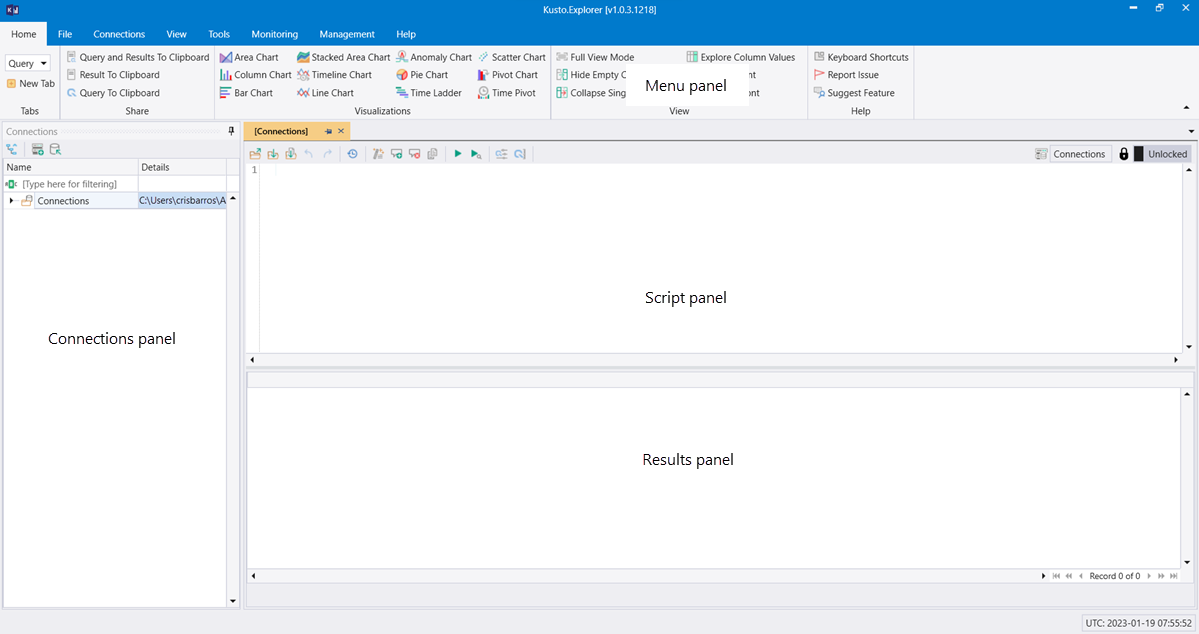
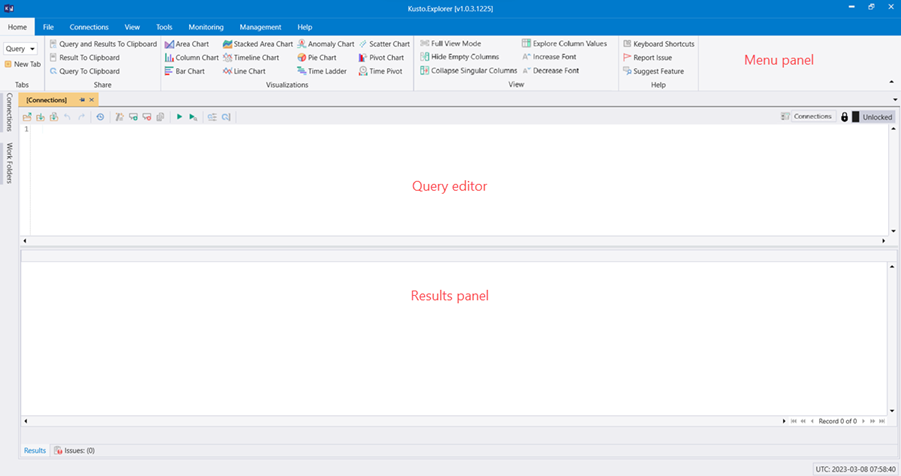
Edit

diff --git a/data-explorer/kusto/tools/kusto-explorer.md b/data-explorer/kusto/tools/kusto-explorer.md
@@ -39,36 +39,48 @@ If your default browser is the Chromium-based Microsoft Edge, installing this ex
 The Kusto.Explorer user interface is designed with a layout based on tabs and panels, similar to that of other Microsoft products:
 
 * Navigate through the tabs on the [menu panel](#menu-panel) to perform various operations
-* Manage your connections in the [connections panel](#connections-panel)
+* Manage your connections in the [connections panee](#connections-panel)
 * Create scripts to run in the script panel
 * View the results of the scripts in the results panel
 
 :::image type="content" source="images/kusto-explorer/ke-start.png" alt-text="Screenshot of Kusto Explorer user interface that shows an overview of the interface's four panels.":::
 
+## Connections panel
+
+:::image type="content" source="images/kusto-explorer/connections-panel.png" alt-text="Screenshot of the Connections panel that shows the Help cluster's databases.":::
+
+The Connections pane shows all the configured cluster connections. For each cluster the databases, tables, and attributes (columns) that they store are shown. Select items (which sets an implicit context
+for the search/query in the main panel), or double-click items to copy the name to the search/query panel.
+
+If the actual schema is large (such as a database with hundreds of tables), you can search it by pressing **CTRL+F** and entering a substring (case-insensitive) of the entity name you're looking for.
+
+Kusto.Explorer supports controlling the Connection panel from the query window, which is useful for scripts. For example, you can start a script file with a command that instructs Kusto.Explorer to connect to the cluster/database whose data is being queried by the script, by using the following syntax:
+
+<!-- csl -->
+```kusto
+#connect cluster('help').database('Samples')
+
+StormEvents | count
+```
+
+Run each line using `F5`, or similar.
+
+## Work Folders panel
+
+:::image type="content" source="images/kusto-explorer/work-folders-pane.png" alt-text="Screenshot of the Work Folders panel showing Unsaved work and Tracked Folders.":::
+
+The Work folders pane organizes your work folders in one place to make navigating your work easier. There are two types of work folders:
+
+* **Unsaved work**: lists folders for open query tabs that you may still be working on.
+* **Tracked folders**: lists folders from your local device that you can add as KQL libraries for easier access and management.
+
 ## Menu panel
-
-Kusto.Explorer Menu panel includes the following tabs:
-
-* [Home](#home-tab)
-* [File](#file-tab)
-* [Connections](#connections-tab)
-* [View](#view-tab)
-* [Tools](#tools-tab)
-* [Monitoring](#monitoring-tab)
-* [Management](#management-tab)
-* [Help](#help-tab)
 
 ### Home tab
 
 :::image type="content" source="images/kusto-explorer/home-tab.png" alt-text="Screenshot of the Home tab that shows the Home tab's five sections.":::
 
-The Home tab shows the most recently used functions, divided into sections:
-
-* [Query](#query-section)
-* [Share](#share-section)
-* [Visualizations](#visualizations-section)
-* [View](#view-section)
-* [Help](#help-tab)
+The Home tab shows the most frequently used operations. It includes:
 
 ### Query section
 
@@ -76,8 +88,8 @@ The Home tab shows the most recently used functions, divided into sections:
 
 |Menu|    Behavior|
 |----|----------|
-|Mode dropdown | <ul><li>Query mode: Switches Query Window into a [script mode](kusto-explorer-using.md#query-mode). Commands can be loaded and saved as scripts (default)</li> <li> Search mode: A single query mode where each command entered is processed immediately and presents a result in the Result Window</li> <li>Search++ mode: Allows searching for a term using search syntax across one or more tables. Learn more about using [Search++ Mode](kusto-explorer-using.md#search-mode)</li></ul> |
-|New Tab| Opens a new tab for querying Kusto |
+|Mode dropdown | <ul><li>Query mode: Switches the query editor into a [query mode](kusto-explorer-using.md#query-mode). Commands can be written and saved as queries (default)</li> <li> Search mode: A single query mode where each command entered is processed immediately and presents a result in the result panel</li> <li>Search++ mode: Allows searching for a term using search syntax across one or more tables. Learn more about using [Search++ Mode](kusto-explorer-using.md#search-mode)</li></ul> |
+|New Tab| Opens a new tab for querying Kusto Query Language. |
 
 ### Share section
 
@@ -92,6 +104,8 @@ The Home tab shows the most recently used functions, divided into sections:
 ### Visualizations section
 
 :::image type="content" source="images/kusto-explorer/home-visualizations-menu.png" alt-text="Screenshot of the Home tab section titled Visualizations that shows the different options for visualizing data.":::
+
+For variable visualizations see the [render operator](/data-explorer/kusto/query/renderoperator.md).
 
 |Menu         | Behavior|
 |-------------|---------|
@@ -247,6 +261,18 @@ The Home tab shows the most recently used functions, divided into sections:
 |Reset Options| Sets application settings to default values.|
 |Options| Opens a tool for configuring application settings. Learn more about [Kusto.Explorer options](kusto-explorer-options.md).|
 
+## Table row colors
+
+Kusto.Explorer tries to interpret the severity or verbosity level of each row in the results panel and color them accordingly. It does this by matching the distinct values of each column with a set of known patterns ("Warning", "Error", and so on).
+
+To modify the output color scheme, or turn this behavior off, from the **Tools** menu, select **Options** > **Results Viewer** > **Verbosity color scheme**.
+
+:::image type="content" source="images/kusto-explorer/ke-color-scheme.png" alt-text="Screenshot of Kusto Explorer color scheme modification.":::
+
+**Excel** color scheme legend| **Vivid** color scheme legend
+|---|---
+| :::image type="content" source="images/kusto-explorer/excel-color-scheme.png" alt-text="Screenshot of the Excel color scheme legend in Kusto Explorer." border="false"::: |:::image type="content" source="images/kusto-explorer/vivid-color-scheme.png" alt-text="Screenshot vivid color scheme legend in Kusto Explorer." border="false":::
+
 ## Monitoring tab
 
 :::image type="content" source="images/kusto-explorer/monitoring-tab.png" alt-text="Screenshot of the Monitoring tab that shows two options for monitoring data.":::
@@ -262,7 +288,7 @@ The Home tab shows the most recently used functions, divided into sections:
 
 ## Management tab
 
-:::image type="content" source="images/kusto-explorer/management-tab.png" alt-text="Screenshot of the Management tab that shows options for managing Authorized Prinicipals. ":::
+:::image type="content" source="images/kusto-explorer/management-tab.png" alt-text="Screenshot of the Management tab that shows options for managing Authorized Principals. ":::
 
 |Menu             | Behavior|
 |-----------------|---------|
@@ -281,28 +307,9 @@ The Home tab shows the most recently used functions, divided into sections:
 |Help             | Opens a link to the Kusto online documentation.  |
 |What's new       | Opens a document that lists all Kusto.Explorer changes.|
 |Report Issue      |Opens a dialog with two options: <ul><li>Report issues related to service</li><li>Report issues in the client application</li></ul>. |
-|Keyboard Shortcuts| Opens a link to the Kusto Explorer keyboard shortcuts article.|
+|Keyboard Shortcuts| Opens a link to the [list of Kusto.Explorer keyboard shortcuts](kusto-explorer-shortcuts.md).|
 |Suggest Feature  | Opens a link to the Kusto feedback forum. |
 |Show EULA| Opens a link to the Microsoft Azure Legal Information article.|
-
-## Connections panel
-:::image type="content" source="images/kusto-explorer/connections-panel.png" alt-text="Screenshot of the Connections panel that shows the Help cluster's databases.":::
-
-The Connections pane shows all the configured cluster connections. For each cluster the databases, tables, and attributes (columns) that they store are shown. Select items (which sets an implicit context
-for the search/query in the main panel), or double-click items to copy the name to the search/query panel.
-
-If the actual schema is large (such as a database with hundreds of tables), you can search it by pressing **CTRL+F** and entering a substring (case-insensitive) of the entity name you're looking for.
-
-Kusto.Explorer supports controlling the Connection panel from the query window, which is useful for scripts. For example, you can start a script file with a command that instructs Kusto.Explorer to connect to the cluster/database whose data is being queried by the script, by using the following syntax:
-
-<!-- csl -->
-```kusto
-#connect cluster('help').database('Samples')
-
-StormEvents | count
-```
-
-Run each line using `F5`, or similar.
 
 ### Control the user identity connecting to Kusto.Explorer
 
@@ -328,22 +335,6 @@ Data Source=https://CLUSTER_NAME.kusto.windows.net;Initial Catalog=DATABASE_NAME
 > The domain name of the user is not necessarily the same as that of the tenant hosting the cluster.
 
 :::image type="content" source="images/kusto-explorer/advanced-connection-string.png" alt-text="Screenshot of the Add Connection pane showing the option titled Advanced Connection String.":::
-
-## Keyboard shortcuts
-
-You might find that using keyboard shortcuts enables you to perform operations faster than with the mouse. Take a look at this [list of Kusto.Explorer keyboard shortcuts](kusto-explorer-shortcuts.md) to learn more.
-
-## Table row colors
-
-Kusto.Explorer tries to interpret the severity or verbosity level of each row in the results panel and color them accordingly. It does this by matching the distinct values of each column with a set of known patterns ("Warning", "Error", and so on).
-
-To modify the output color scheme, or turn this behavior off, from the **Tools** menu, select **Options** > **Results Viewer** > **Verbosity color scheme**.
-
-:::image type="content" source="images/kusto-explorer/ke-color-scheme.png" alt-text="Screenshot of Kusto Explorer color scheme modification.":::
-
-**Excel** color scheme legend| **Vivid** color scheme legend
-|---|---
-| :::image type="content" source="images/kusto-explorer/excel-color-scheme.png" alt-text="Screenshot of the Excel color scheme legend in Kusto Explorer." border="false"::: |:::image type="content" source="images/kusto-explorer/vivid-color-scheme.png" alt-text="Screenshot vivid color scheme legend in Kusto Explorer." border="false":::
 
 ## Next steps
 

diff --git a/data-explorer/kusto/tools/kusto-explorer-using.md b/data-explorer/kusto/tools/kusto-explorer-using.md
@@ -14,7 +14,7 @@ Kusto.Explorer is a desktop application that enables you to explore your data us
 
 Search++ mode enables you to search for a term using search syntax across one or more tables.
 
-1. In the Home tab, in the Query dropdown, select **Search++**.
+1. In the **Home** tab, in the Query dropdown, select **Search++**.
 1. Select **Multiple tables**.
 1. Under **Choose tables**, define which tables to search.
 1. In the edit box, enter your search phrase and select **Go**.
@@ -28,7 +28,7 @@ Search++ mode enables you to search for a term using search syntax across one or
 
 ## Query mode
 
-Kusto.Explorer includes a powerful script mode that enables you to write, edit, and run inline queries. The script mode comes with syntax highlighting and IntelliSense, so you can quickly ramp-up your knowledge of the Kusto Query Language.
+Kusto.Explorer includes a powerful query mode that enables you to write, edit, and run inline queries. The query mode comes with syntax highlighting and IntelliSense, so you can quickly ramp-up your knowledge of the Kusto Query Language.
 
 This section describes how to run basic queries in Kusto.Explorer and how to add parameters to your queries.
 
